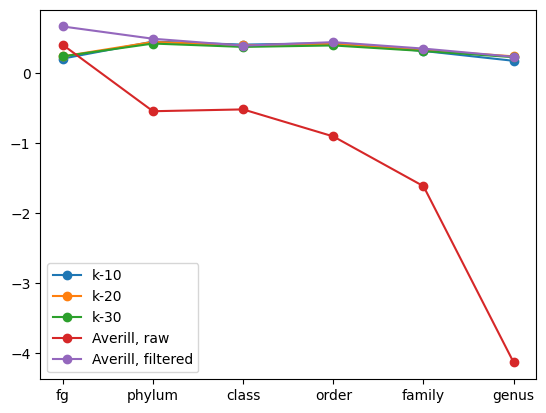
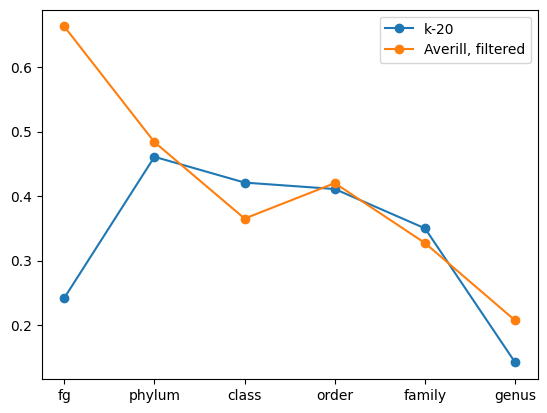
Readme

diff --git a/readme.rst b/readme.rst
@@ -57,11 +57,10 @@ To load the data and train the regressors to replicate our results, you need to:
 4. You can now open the notebook ``demon/regression.ipynb`` and execute it with the Python virtual environment that you configured. The notebook cells filter and normalize input data, train machine learning regression models, and evaluate the trained models using R^2.
 5. For example, using the input files ``15_variables.csv``, ``observed.csv``, ``y_11groupTaxo.csv``, and ``y_11groupTaxo.csv``, from the directory ``data/averill/bacteria``, we obtain the results shown in the article for the bacterial dataset of Averill et al. - they will be displayed in the notebook.
 
-For example, we obtain the following output with the k-NN model::
+For example, we obtain the following output with the k-NN ML model and the Dirichlet model used by Averill et al::
 
-   k-10: ['0.21 ± 0.105', '0.453 ± 0.058', '0.41 ± 0.03', '0.431 ± 0.09', '0.319 ± 0.127', '0.178 ± 0.26']
-   k-20: ['0.242 ± 0.089', '0.448 ± 0.059', '0.399 ± 0.043', '0.421 ± 0.071', '0.331 ± 0.108', '0.242 ± 0.14']
-   k-30: ['0.242 ± 0.081', '0.425 ± 0.05', '0.377 ± 0.034', '0.398 ± 0.074', '0.318 ± 0.085', '0.23 ± 0.128']
+   k-NN (k = 20): [0.242, 0.461, 0.421, 0.411, 0.350, 0.142]
+   Averill et al. [0.663, 0.484, 0.365, 0.420, 0.327, 0.207]
 
 We graph these results against taxonomic levels to obtain the following figure:
 
